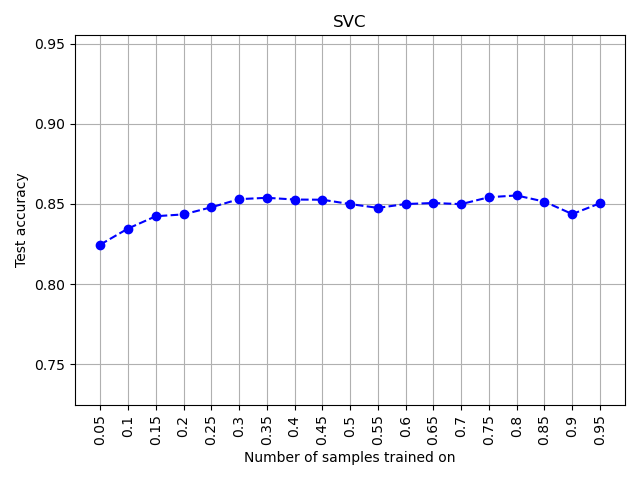
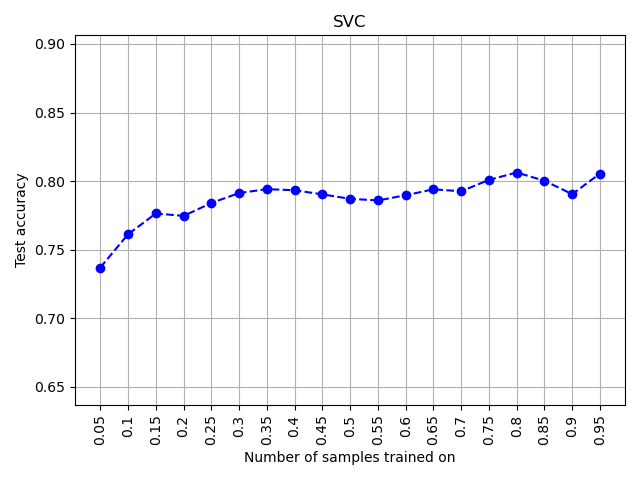
add acc plots for classfiers in readme

diff --git a/transfer_learning.py b/transfer_learning.py
@@ -8,7 +8,7 @@ from configfile import *
 from sklearn.model_selection import train_test_split
 from sklearn.pipeline import make_pipeline
 from sklearn.preprocessing import StandardScaler
-from sklearn.metrics import accuracy_score
+from sklearn.metrics import balanced_accuracy_score
 from sklearn.svm import SVC
 from sklearn.linear_model import SGDClassifier
 from sklearn.neighbors import KNeighborsClassifier
@@ -66,9 +66,9 @@ if __name__ == "__main__":
         knn_preds = knn_classifier.predict(X_test)
 
         # Compute accuracies
-        svc_accuracy = accuracy_score(y_test, svc_preds)
-        linear_accuracy = accuracy_score(y_test, linear_preds)
-        knn_accuracy = accuracy_score(y_test, knn_preds)
+        svc_accuracy = balanced_accuracy_score(y_test, svc_preds)
+        linear_accuracy = balanced_accuracy_score(y_test, linear_preds)
+        knn_accuracy = balanced_accuracy_score(y_test, knn_preds)
 
         svc_accuracies.append(svc_accuracy)
         linear_accuracies.append(linear_accuracy)
